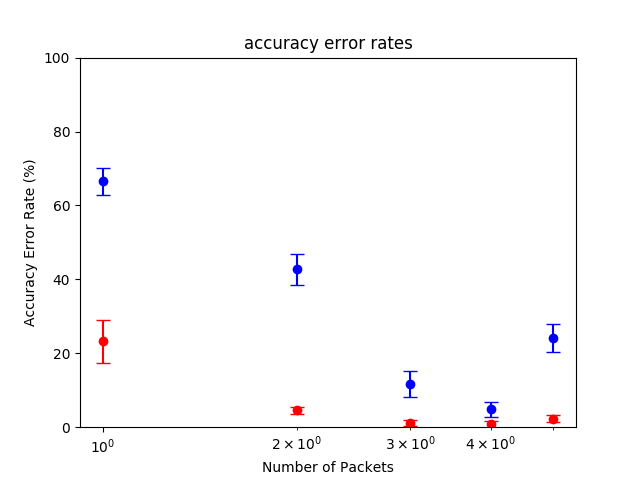
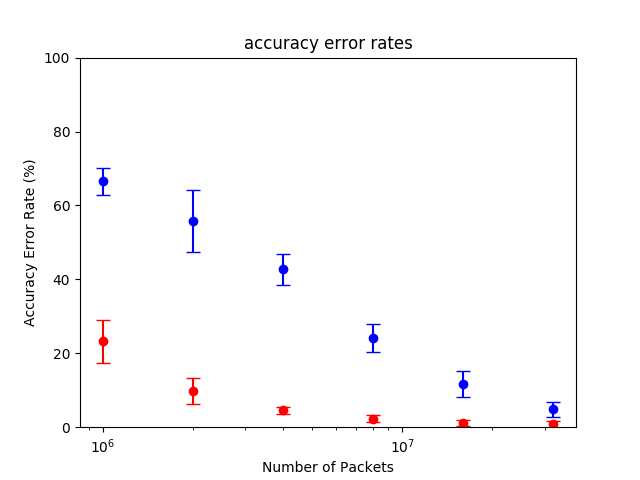
Convert num_packets to int

diff --git a/sanjose2014/plot_graph.py b/sanjose2014/plot_graph.py
@@ -54,6 +54,7 @@ def graph(rhh_confidence_intervals, _10_rhh_confidence_intervals, graph_name, x_
 	        y_err[i].append((interval[1]-interval[0])/2)
 	fig = plt.figure()
 	ax = fig.add_subplot(111)
+	pdb.set_trace()
 	ax.errorbar(x_val[0], y_val[0], yerr=y_err[0], color="red", marker='o', capsize=5, ls="none")
 	ax.errorbar(x_val[1], y_val[1], yerr=y_err[1], color="blue", marker='o', capsize=5, ls="none")
 	ax.set_xlabel(x_label)

diff --git a/chicago2015/parse_results.py b/chicago2015/parse_results.py
@@ -15,6 +15,7 @@ def parse_file(filename):
 		    line_tokens = line.split()
 		    result_obj = {}
 		    num_packets, time, num_reported_hhh = re.match('([0-9]+)\spairs\stook\s([0-9.]+)s\s\([0-9.s\-]+\)\s([0-9]+)\sHHHs', line).group(1, 2, 3)
+		    num_packets = int(num_packets)
 		    if num_packets not in results_by_packet_number:
 			results_by_packet_number[num_packets] = []
 

diff --git a/sanjose2014/parse_results.py b/sanjose2014/parse_results.py
@@ -15,6 +15,7 @@ def parse_file(filename):
 		    line_tokens = line.split()
 		    result_obj = {}
 		    num_packets, time, num_reported_hhh = re.match('([0-9]+)\spairs\stook\s([0-9.]+)s\s\([0-9.s\-]+\)\s([0-9]+)\sHHHs', line).group(1, 2, 3)
+		    num_packets = int(num_packets)
 		    if num_packets not in results_by_packet_number:
 			results_by_packet_number[num_packets] = []
 
